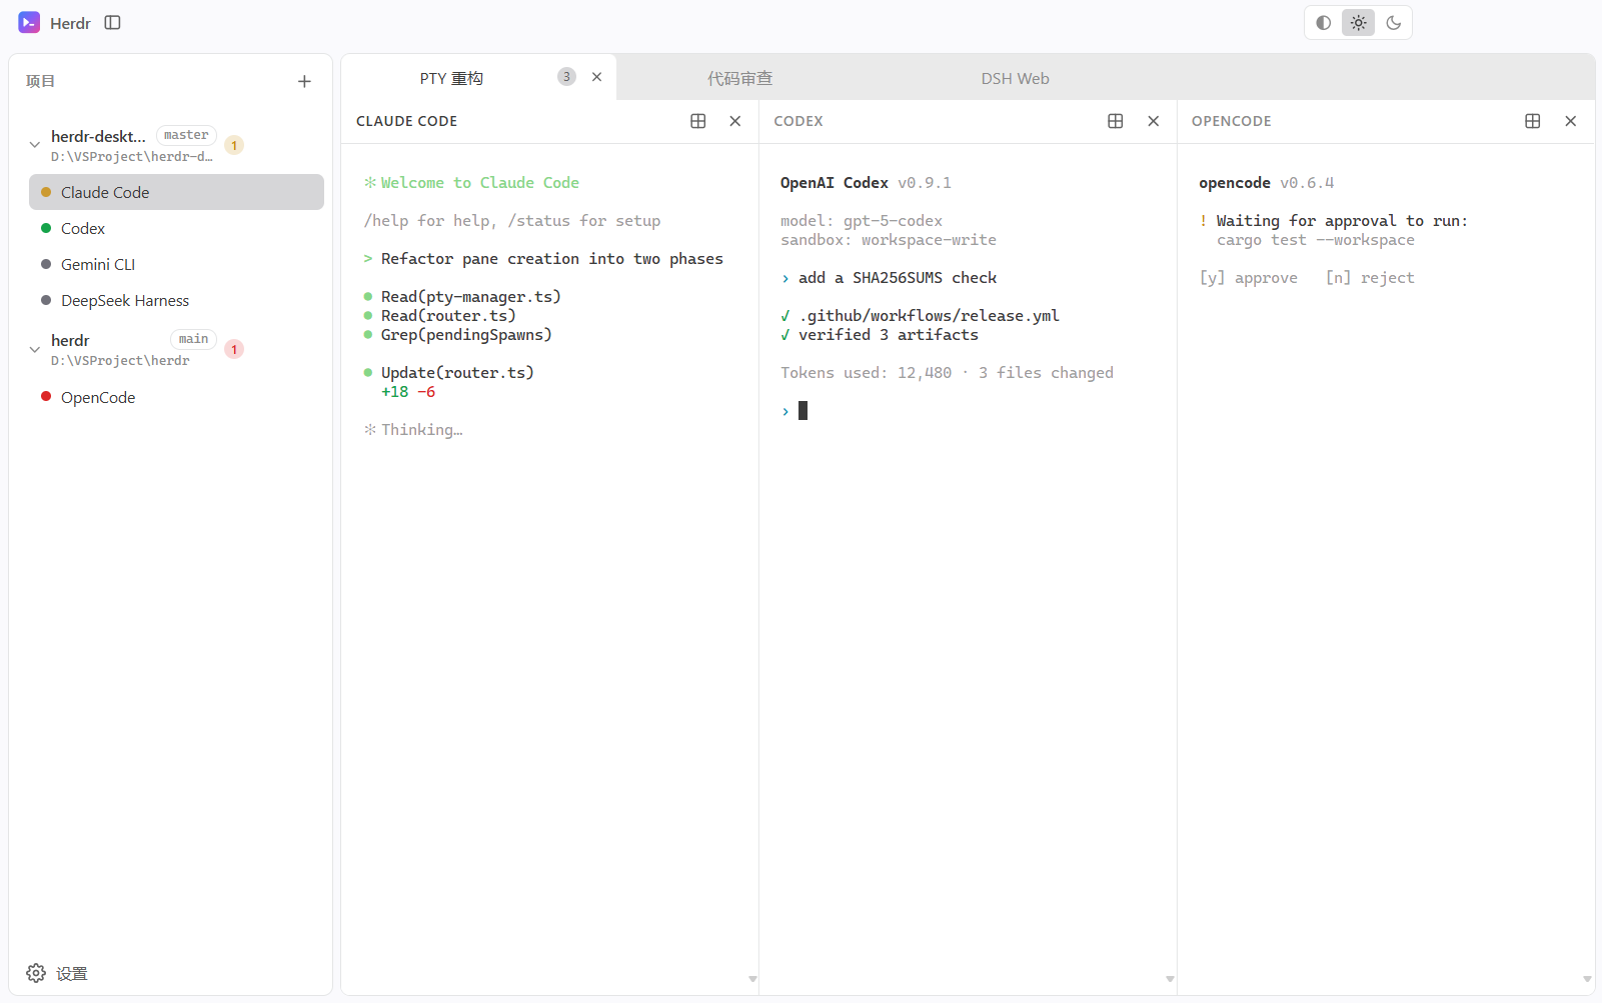
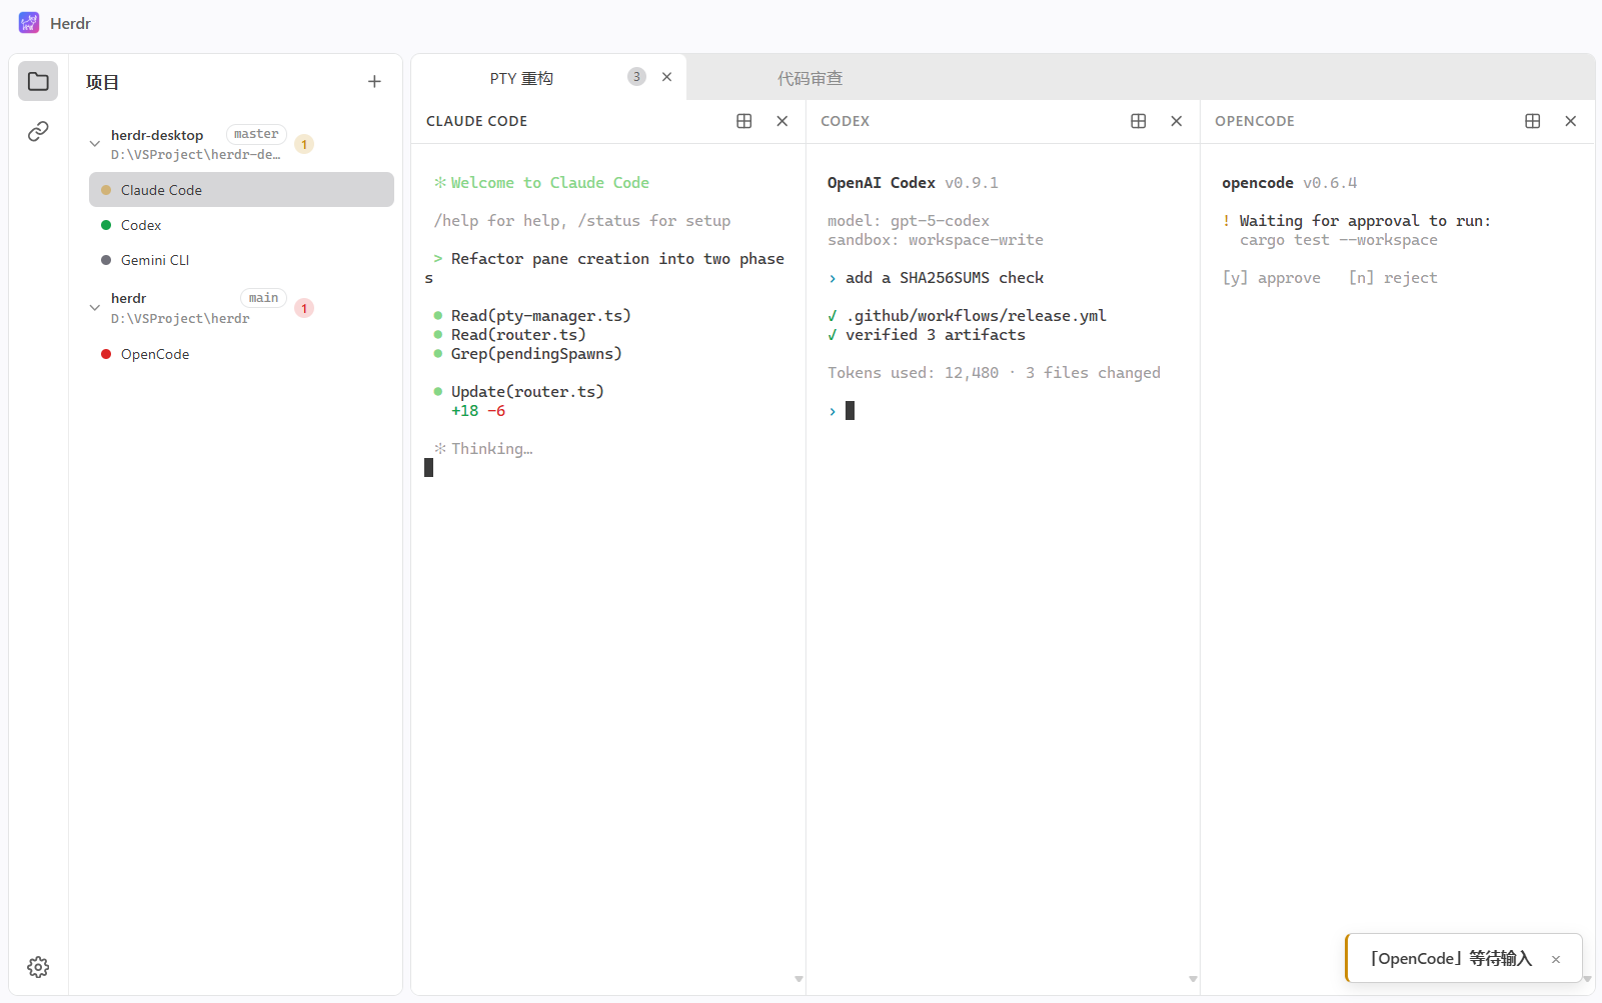
docs(readme): 重新截图，保留深色/浅色两张

diff --git a/scripts/screenshot.js b/scripts/screenshot.js
@@ -11,11 +11,9 @@
  * 正确做法：只伪造「项目」，然后通过渲染进程真实调用 spawnAgent，
  * 让 PTY 真正跑起来、xterm 真正挂载，截到的才是真界面。
  *
- * 界面已经演进到「标签页 + 视图内分屏 + 内嵌 DSH Web」，一张图塞不下，
- * 这里产出三张：
- *   docs/screenshot.png        深色主界面：标签栏 + 视图内三格分屏 + 状态 toast
- *   docs/screenshot-web.png    内嵌 DeepSeek Harness Web GUI 的 pane
- *   docs/screenshot-light.png  浅色主题下的主界面
+ * 产出两张图：
+ *   docs/screenshot.png        深色主界面：图标栏侧栏 + 标签栏 + 视图内三格分屏 + 状态 toast
+ *   docs/screenshot-light.png  同一套界面的浅色主题
  *
  * 两个关键技巧：
  *
@@ -29,12 +27,8 @@
  *
  * 2. 状态切换靠「信号文件」，而不是 sleep 猜时间。
  *    每个演示 pane 先循环打印「工作中」帧，直到脚本创建对应信号文件，才切到
- *    最终帧。这样状态迁移时机完全由脚本决定，不受 dsh web 启动耗时影响；
+ *    最终帧。这样状态迁移时机完全由脚本决定，不受进程启动耗时影响；
  *    toast 也保证在截图瞬间还没消失（NotificationToasts 自动消失是 8s）。
- *
- * 注意：内嵌 web pane 必须在 reload **之后**再 spawn —— 认证链接只经
- * `web:ready` 下发并缓存在渲染进程的 webStore 里（刻意不持久化），reload 后
- * 拿不到链接就只会显示「正在启动」。
  *
  * 用法：
  *   npx electron-vite build
@@ -73,7 +67,6 @@ const SIGNAL_DIR = path.join(TMP_USER_DATA, 'signals');
 const LOG_PATH = path.join(os.tmpdir(), 'herdr-shot.log');
 const DOCS_DIR = path.join(__dirname, '..', 'docs');
 const OUT_MAIN = path.join(DOCS_DIR, 'screenshot.png');
-const OUT_WEB = path.join(DOCS_DIR, 'screenshot-web.png');
 const OUT_LIGHT = path.join(DOCS_DIR, 'screenshot-light.png');
 
 /** 布局持久化的 key，需与 src/stores/layoutStore.ts 的 STORAGE_KEY 一致。 */
@@ -273,9 +266,9 @@ function demoCommand(pane, signalPath) {
  * 形状必须满足 layoutStore 的 isValidTree：split 需要 id/orientation/ratio/两个
  * 子节点，pane 叶子需要 id/paneId，空位需要 id/projectId。
  *
- * 第三个视图刻意留一个空位：reconcile 会用「尚未放置的运行态 pane」填它，
- * 而稍后才 spawn 的 DSH Web pane 正是唯一未放置的 pane —— 于是它落在名为
- * 「DSH Web」的标签里，而不需要 reload（reload 会丢掉 webview 的认证链接）。
+ * 两个视图：第一个是三格分屏的工作区（截图主体），第二个放一个独立 agent，
+ * 用来体现「标签即工作区」。注意别放纯空位的视图 —— loadLayout 会把没有任何
+ * pane 的视图清掉，标签栏根本不会出现。
  */
 function buildLayout(paneIds) {
   const pane = (paneId, id) => ({ id, type: 'pane', paneId });
@@ -302,7 +295,6 @@ function buildLayout(paneIds) {
         },
       },
       { id: 'v-shot-2', name: '代码审查', tree: pane(paneIds.gemini, 'n-shot-6') },
-      { id: 'v-shot-3', name: 'DSH Web', tree: { id: 'n-shot-7', type: 'empty', projectId: 'p1' } },
     ],
     activeViewId: 'v-shot-1',
   };
@@ -340,26 +332,50 @@ async function reloadRenderer(win) {
   await sleep(1500);
 }
 
-/** 轮询渲染进程里的布尔表达式，直到为真或超时。 */
-async function pollUntil(win, expression, timeoutMs, intervalMs = 500) {
-  const deadline = Date.now() + timeoutMs;
-  while (Date.now() < deadline) {
-    try {
-      if (await exec(win, expression)) return true;
-    } catch {
-      /* 页面正在切换时可能抛错，继续轮询 */
-    }
-    await sleep(intervalMs);
-  }
-  return false;
-}
-
-/** 截图并落盘。 */
+/**
+ * 截图并落盘。
+ *
+ * capturePage 在窗口被别的窗口盖住（或被系统判定为不可见）时会抛
+ * `UnknownVizError` —— Viz 合成器压根不产帧。所以这里：先把窗口抬到最前、
+ * 关掉后台节流，再重试若干次；仍然失败就退回 CDP 的 Page.captureScreenshot，
+ * 它取的是渲染进程自己的帧，不依赖窗口是否可见。
+ */
 async function capture(win, out) {
-  const image = await win.webContents.capturePage();
-  fs.writeFileSync(out, image.toPNG());
-  const { width, height } = image.getSize();
-  log(`已写出 ${path.basename(out)} ${width}x${height} ${fs.statSync(out).size}B`);
+  win.setAlwaysOnTop(true);
+  win.show();
+  win.focus();
+  win.webContents.setBackgroundThrottling(false);
+  await sleep(900);
+
+  let image = null;
+  for (let attempt = 1; attempt <= 4 && !image; attempt += 1) {
+    try {
+      const shot = await win.webContents.capturePage();
+      if (shot.isEmpty()) log(`截图第 ${attempt} 次拿到空图，重试`);
+      else image = shot;
+    } catch (error) {
+      log(`截图第 ${attempt} 次失败：${error && error.message ? error.message : String(error)}`);
+    }
+    if (!image) await sleep(1200);
+  }
+
+  if (image) {
+    fs.writeFileSync(out, image.toPNG());
+    const { width, height } = image.getSize();
+    log(`已写出 ${path.basename(out)} ${width}x${height} ${fs.statSync(out).size}B`);
+  } else {
+    const dbg = win.webContents.debugger;
+    if (!dbg.isAttached()) dbg.attach('1.3');
+    const result = await dbg.sendCommand('Page.captureScreenshot', {
+      format: 'png',
+      fromSurface: true,
+      captureBeyondViewport: false,
+    });
+    fs.writeFileSync(out, Buffer.from(result.data, 'base64'));
+    log(`已写出 ${path.basename(out)}（CDP 回退）${fs.statSync(out).size}B`);
+  }
+
+  win.setAlwaysOnTop(false);
 }
 
 /** 读取标签栏现状，用于确认布局真的生效。 */
@@ -494,7 +510,7 @@ async function main() {
     await reloadRenderer(win);
     tabs = await readTabs(win);
     log(`标签栏（第 ${attempt} 次）：${JSON.stringify(tabs)}`);
-    if (tabs.length === 3 && tabs[0].name === 'PTY 重构' && tabs[2].name === 'DSH Web') break;
+    if (tabs.length === 2 && tabs[0].name === 'PTY 重构' && tabs[1].name === '代码审查') break;
   }
 
   /* --- 4. 发信号：所有 pane 切到最终帧 --- */
@@ -505,47 +521,10 @@ async function main() {
   await sleep(3200);
   log('最终帧已输出');
 
-  /* --- 5. 主界面截图 --- */
+  /* --- 5. 深色主界面截图 --- */
   await capture(win, OUT_MAIN);
 
-  /* --- 6. DSH Web pane：必须放在 reload 之后 --- */
-  const webPaneId = await exec(
-    win,
-    `new Promise((resolve) => {
-       const api = window.herdrDesktop;
-       const timer = setTimeout(() => resolve(null), 90000);
-       const off = api.onMessage((message) => {
-         if (message.type !== 'web:ready') return;
-         clearTimeout(timer);
-         off();
-         resolve(message.payload.paneId);
-       });
-       api.sendControl({
-         type: 'control:spawn-web-agent',
-         version: 1,
-         payload: { projectId: 'p1', label: 'DeepSeek Harness' },
-       });
-     })`,
-  );
-  if (!webPaneId) throw new Error('dsh web 未在 90s 内就绪');
-  log(`web pane 就绪：${webPaneId}`);
-
-  // 等 <webview> 把 DSH Web GUI 真正渲染出来
-  const loaded = await pollUntil(
-    win,
-    `(() => {
-       const view = document.querySelector('webview');
-       if (!view) return false;
-       try { return view.isLoading() === false; } catch { return false; }
-     })()`,
-    60000,
-  );
-  log(`webview 加载完成=${loaded}`);
-  await sleep(4000);
-  log(`web 标签栏：${JSON.stringify(await readTabs(win))}`);
-  await capture(win, OUT_WEB);
-
-  /* --- 7. 浅色主题下的终端视图 --- */
+  /* --- 6. 浅色主题：同一套界面换主题再截一张 --- */
   await exec(
     win,
     `window.herdrDesktop.sendControl({
@@ -555,9 +534,8 @@ async function main() {
      })`,
   );
   /*
-   * 切回第一个标签：直接点标签，而不是只发 focus-pane。
-   * 焦点跟随只保证 focusedPaneId 落到该视图，视图激活并不总会跟着走
-   * （第一次截图里画面就停在 DSH Web 上），点标签是确定有效的用户动作。
+   * 点一下第一个标签并聚焦 Claude：确认当前视图就是那套三格分屏，
+   * 侧栏高亮也与画面一致（点标签是确定有效的用户动作，比只发 focus-pane 稳）。
    */
   const switched = await exec(
     win,
@@ -568,7 +546,6 @@ async function main() {
      })()`,
   );
   log(`切回终端标签=${switched}`);
-  // 再聚焦 Claude，让侧栏高亮与当前视图一致
   await exec(
     win,
     `window.herdrDesktop.sendControl({
@@ -577,16 +554,17 @@ async function main() {
        payload: { paneId: ${JSON.stringify(paneIds.claude)} },
      })`,
   );
-  await sleep(2500);
+  // 等主题切换生效：xterm 要重建 WebGL addon，toast 也还在生命周期内
+  await sleep(3000);
   await capture(win, OUT_LIGHT);
 
   /*
    * 收尾：主动关掉所有 pane。
-   * app.exit() 不会走 before-quit，PTY 与 dsh web 子进程不会被自动回收，
-   * 会留下若干孤儿 powershell / node 进程（还会占住 stdout 句柄让调用方
+   * app.exit() 不会走 before-quit，PTY 子进程不会被自动回收，
+   * 会留下若干孤儿 powershell 进程（还会占住 stdout 句柄让调用方
    * 迟迟等不到 EOF）。走正常关 pane 路径让运行时结束整棵进程树。
    */
-  const allPaneIds = [...Object.values(paneIds), webPaneId];
+  const allPaneIds = [...Object.values(paneIds)];
   await exec(
     win,
     `(() => {

diff --git a/README.en.md b/README.en.md
@@ -14,25 +14,9 @@
 
 ## Screenshot
 
-### Multiple agents in split panes (dark theme)
+### Dark theme
 
 ![Herdr Desktop interface](docs/screenshot.png)
-
-Projects and agents on the left (with branch badges and status dots), the current
-view's split terminals on the right, and a tab bar along the top holding several
-workspaces at once: the "PTY 重构" tab is split into three panes, while "代码审查"
-and "DSH Web" each get a tab of their own. The four sidebar dots read working
-(Claude Code), done (Codex), waiting for input (OpenCode) and idle (Gemini CLI,
-which lives in the "代码审查" tab). The in-app status toasts appear in the
-bottom-right corner.
-
-### Embedded DeepSeek Harness
-
-![Embedded DeepSeek Harness web GUI](docs/screenshot-web.png)
-
-An agent doesn't have to be a command-line program: `DeepSeek Harness` embeds its
-web GUI directly in the pane, isolated in its own session partition and following
-the app theme.
 
 ### Light theme
 

diff --git a/README.md b/README.md
@@ -14,22 +14,9 @@
 
 ## 截图
 
-### 多 agent 分屏（深色主题）
+### 深色主题
 
 ![Herdr Desktop 界面](docs/screenshot.png)
-
-左侧是项目与 agent 列表（带分支徽标与状态点），右侧是当前视图的分屏终端，
-顶部标签栏可以同时挂好几套工作区：图中「PTY 重构」这个标签内部三格分屏，
-「代码审查」与「DSH Web」各占一个标签。侧栏四个状态点分别是工作中（Claude Code）、
-已完成（Codex）、等待输入（OpenCode）、空闲（Gemini CLI，在「代码审查」标签里），
-右下角是状态变化时弹出的应用内提示。
-
-### 内嵌 DeepSeek Harness
-
-![内嵌 DeepSeek Harness Web GUI](docs/screenshot-web.png)
-
-agent 不一定非得是命令行程序：`DeepSeek Harness` 直接把它的 Web GUI 嵌进 pane，
-用独立的 session 分区隔离，外观跟随应用主题。
 
 ### 浅色主题
 
